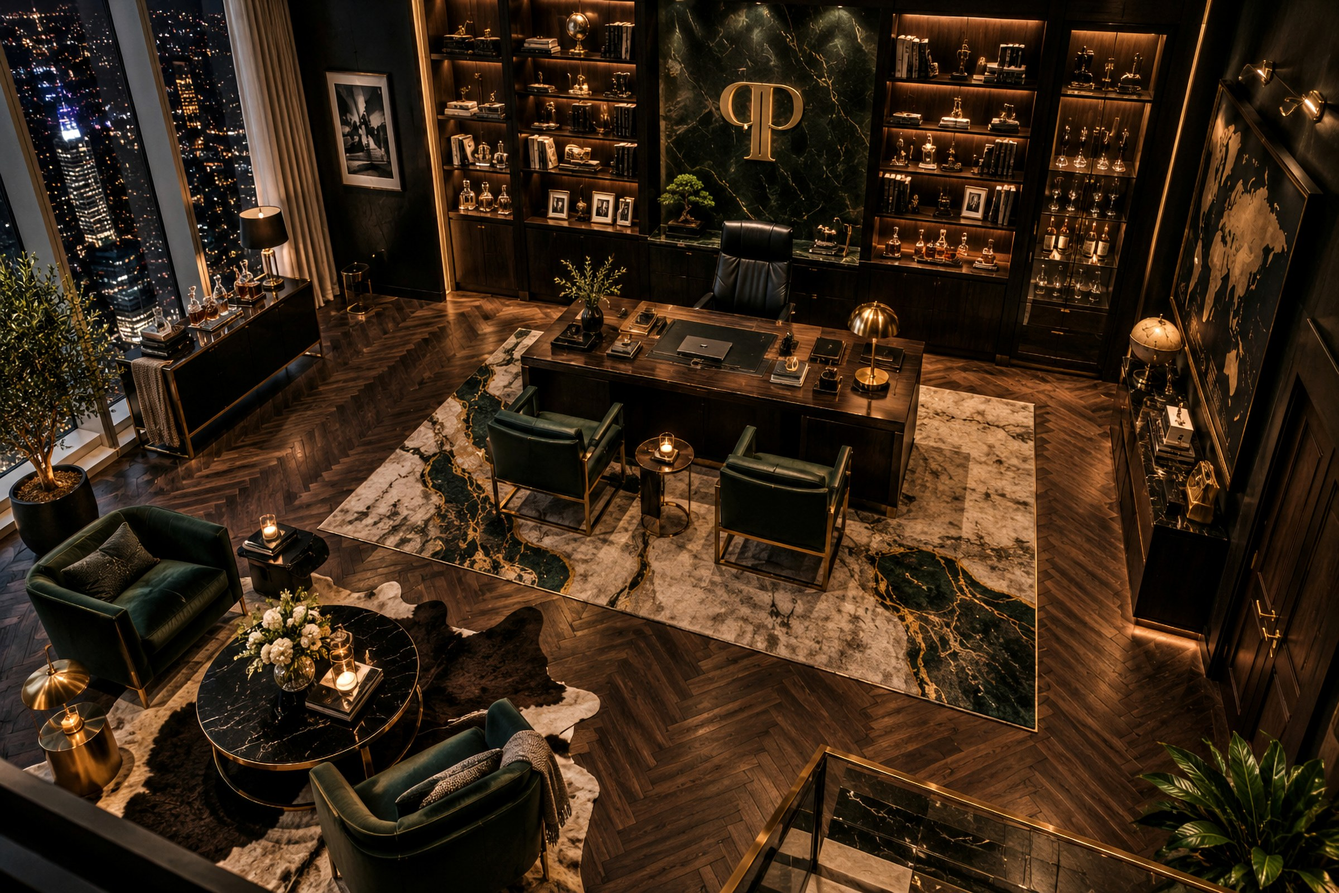
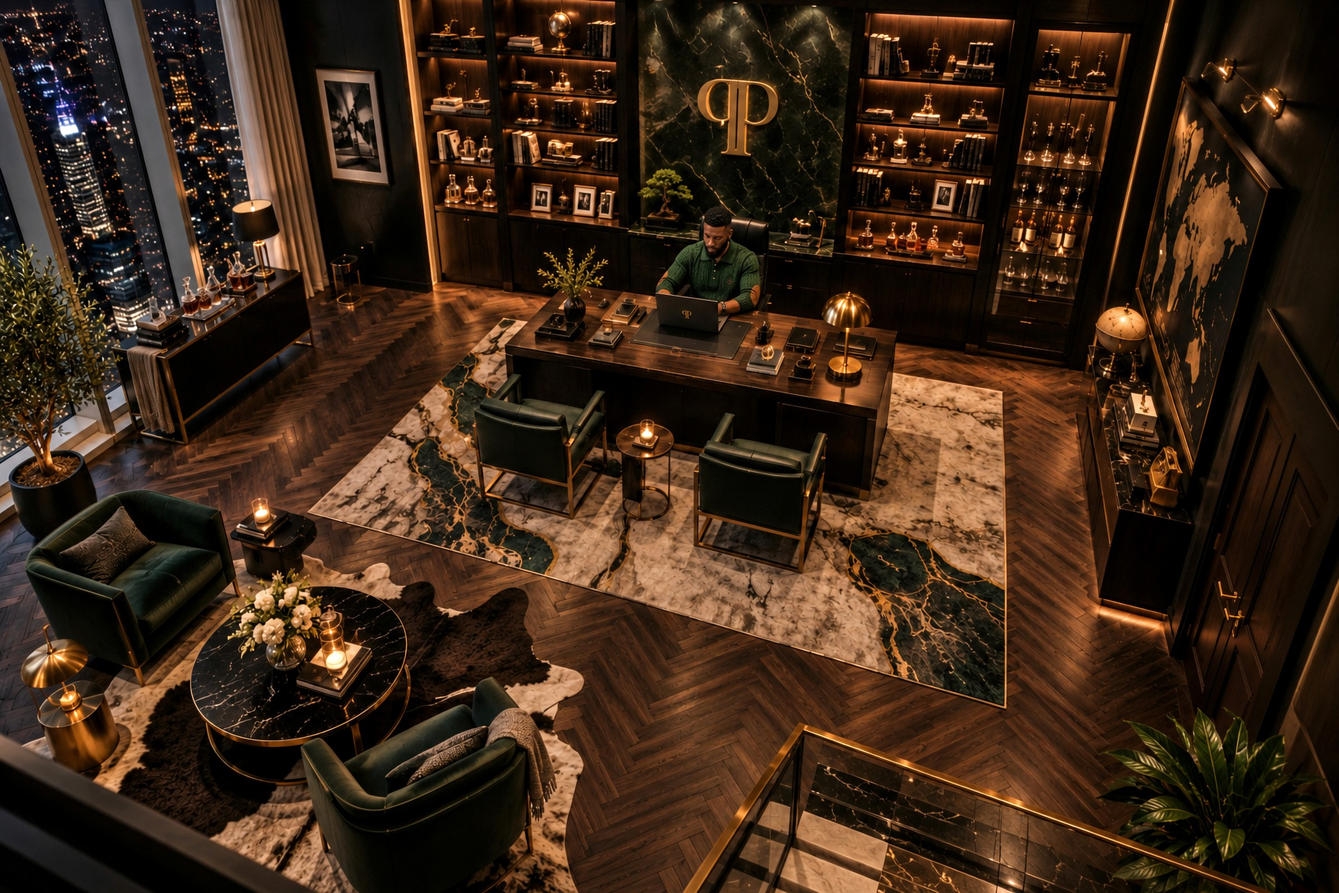
Give the Study a real occupant, restyle and embed the After Hours game
Replaces the Study photo with the new render (Paris seated at the desk)
and adds a sixth OXKNIT collab artifact on his sweater, positioned clear
of the five existing artifacts. All five pre-existing Study artifacts
were re-verified pixel-by-pixel against the new render rather than
assumed unchanged.

Restyles the After Hours boxing minigame (gym/style.css) to the site's
actual design tokens and typeface pair (Playfair Display + Inter)
instead of its original Barlow Condensed / DM Sans / gold-cream palette,
so it reads as part of Paris Pullen rather than a bolted-on arcade page.

Replaces the Gym's Boxer artifact CTA with a new gym-portal.js overlay
(same lazy-iframe pattern as the existing City Guide portal) so clicking
"Enter the Ring" opens the fight directly in a popup over the current
page instead of navigating to a separate tab -- wired into both
house.html and the homepage's embedded pager.

diff --git a/gym/style.css b/gym/style.css
@@ -1,7 +1,7 @@
-@import url('https://fonts.googleapis.com/css2?family=Barlow+Condensed:wght@500;600;700;800;900&family=DM+Sans:wght@400;500;600;700&display=swap');
-:root{color-scheme:dark;--gold:#e2bb7c;--cream:#fff2d9;--muted:#aaa69d;--ink:#101110;--red:#ff6255}*{box-sizing:border-box}body{margin:0;background:#0b0c0b;color:var(--cream);font-family:'DM Sans',sans-serif}button,a{-webkit-tap-highlight-color:transparent}button{font:inherit;color:inherit;cursor:pointer}button:focus-visible,a:focus-visible{outline:3px solid var(--gold);outline-offset:5px}button{border:0}button:disabled{cursor:default}a{color:inherit;text-decoration:none}[hidden]{display:none!important}.room{height:100svh;min-height:650px;position:relative;overflow:hidden;background:#17110c}.room-image{position:absolute;width:100%;height:100%;object-fit:cover;object-position:center}.room-shade{position:absolute;inset:0;background:linear-gradient(180deg,rgba(0,0,0,.6),transparent 27%,transparent 53%,rgba(0,0,0,.83))}.room-header{position:absolute;top:0;left:0;right:0;display:flex;justify-content:space-between;align-items:center;padding:34px 3.8%;font-size:12px;letter-spacing:2px}.wordmark{font-family:Georgia,serif;font-size:22px;letter-spacing:3px}.wordmark span{display:block;font:10px 'DM Sans',sans-serif;letter-spacing:4px;margin-top:8px;color:var(--gold)}.location{display:flex;gap:16px;align-items:center}.location i{height:3px;width:3px;background:var(--gold)}.room-number{font-size:13px}.room-number span{margin-left:20px;color:var(--gold)}.room-footer{position:absolute;bottom:46px;left:3.8%;right:3.8%;display:flex;align-items:end;justify-content:space-between;pointer-events:none}.room-footer button{pointer-events:auto}.eyebrow{font-size:12px;font-weight:600;letter-spacing:3px;color:var(--gold)}h1{font:italic 64px/1.02 Georgia,serif;font-weight:400;margin:17px 0}p{font-size:16px;line-height:1.6}.room-footer p{color:#d5c7b6;margin:12px 0 0}.room-instruction{width:290px;font-size:14px}.room-instruction p{font-size:14px}.room-instruction p span{color:#a7a49e}.small-line{display:block;width:36px;height:1px;background:var(--gold)}.text-button{background:none;padding:14px 0;color:var(--gold);font-size:12px;letter-spacing:2px}.text-button span{margin-left:22px}.hotspot{position:absolute;left:79%;top:40%;transform:translate(-50%,-50%);background:none;display:flex;align-items:center;flex-direction:column;gap:14px;z-index:1;padding:24px}.target{width:52px;height:52px;border:1px solid #efc98b88;display:grid;place-items:center;border-radius:50%;box-shadow:0 0 0 9px #d5b07113;transition:.25s;background:#10100d33;backdrop-filter:blur(3px)}.target span{font-size:28px;color:var(--gold)}.hotspot:hover .target{transform:scale(1.12);box-shadow:0 0 0 16px #d5b07118}.hotspot-label{font-size:10px;letter-spacing:2px;text-shadow:0 1px 6px black;white-space:nowrap;background:#11100ddd;padding:12px 16px;border-left:2px solid var(--gold)}.hotspot-label b{display:block;font-size:12px;letter-spacing:1px;margin-top:6px;color:var(--gold)}dialog{border:1px solid #5a4b35;padding:0;width:min(1120px,95vw);max-width:none;max-height:96svh;background:#101110;overflow:auto;color:var(--cream);box-shadow:0 32px 150px #000b}dialog::backdrop{background:#030505c9;backdrop-filter:blur(12px)}.game-top{display:flex;align-items:center;justify-content:space-between;height:69px;padding:0 28px;border-bottom:1px solid #343029}.game-brand{display:flex;gap:13px;align-items:center;font-size:10px;letter-spacing:2px}.game-brand b{display:block;font-size:15px;letter-spacing:3px;margin-top:4px}.monogram{font:italic 36px Georgia,serif;color:var(--gold);border-right:1px solid #4c4435;padding-right:16px}.top-actions{display:flex;gap:18px;align-items:center}.top-actions button{padding:8px;background:transparent;font-size:13px;color:#c5c2b8}.top-actions #close{font-size:21px}.arena{position:relative;height:clamp(340px,49vh,540px);overflow:hidden;background:#282018}.fighter{position:absolute;width:100%;height:100%;object-fit:cover;object-position:50% 43%;will-change:transform;transition:filter .15s}.arena-shade{position:absolute;inset:0;background:linear-gradient(180deg,#080a09c9,transparent 35%,#090b0977 78%,#101110)}.arena-caption{position:absolute;inset:116px 28px auto;display:flex;justify-content:space-between;font-size:10px;letter-spacing:2px;opacity:.55}.hud{display:flex;position:absolute;top:24px;left:28px;right:28px;align-items:start;gap:25px}.health-block{flex:1}.health-label{display:flex;justify-content:space-between;font-size:12px;letter-spacing:1px;margin-bottom:9px}.health-label span{color:#c5bbac;font-size:10px}.health-track{height:7px;background:#ffffff26;transform:skewX(-15deg)}.health-track div{height:100%;background:var(--gold);width:100%;transition:width .25s}.rival .health-track div{background:#ed795e}.health-value{display:block;font-size:10px;letter-spacing:1px;margin-top:7px;opacity:.7}.rival .health-value{text-align:right}.round-label{text-align:center;min-width:100px}.round-label span{font-size:10px;letter-spacing:2px}.round-label strong{display:block;font:40px/1 'Barlow Condensed',Impact,sans-serif;margin-top:4px}.overlay{position:absolute;inset:0;display:flex;flex-direction:column;justify-content:center;align-items:flex-start;padding:35px 6%;background:linear-gradient(90deg,#080a09ed,#080a09a8 41%,#080a0900 85%)}.overlay h2{font:900 clamp(52px,6.5vw,86px)/.85 'Barlow Condensed',Impact,sans-serif;letter-spacing:-1px;margin:19px 0 14px}.overlay h2 em{color:var(--gold);font-style:normal}.overlay p{font-size:14px;color:#ccc7bc;margin:8px 0;max-width:410px}.overlay .intro-sub{font-size:11px;letter-spacing:2px;color:var(--gold);margin:8px 0}.primary{background:var(--gold);color:#19170f;padding:15px 25px;min-width:218px;display:flex;justify-content:space-between;font-weight:800;letter-spacing:2px;font-size:13px;margin-top:20px;transition:background .15s,transform .15s}.primary:hover{background:#ffe0ab;transform:translateY(-2px)}.intro-hint{font-size:10px;letter-spacing:1.5px;color:#a9a699;margin-top:16px}.game-shell:has(.intro:not([hidden])) .hud,.game-shell:has(.intro:not([hidden])) .arena-caption{opacity:0}.console{display:flex;align-items:center;gap:32px;padding:20px 30px 16px;background:#111310;border-top:1px solid #88704955}.score-card,.streak-card{width:165px;flex-shrink:0}.score-card>span,.streak-card>span{display:block;font-size:10px;color:#b2b1a5;letter-spacing:2px}.score-card strong,.streak-card strong{display:block;font:46px/.95 'Barlow Condensed',Impact,sans-serif;margin:8px 0;color:var(--gold);font-weight:600}.score-card small,.streak-card small{font-size:10px;letter-spacing:1px;color:#918e81}.streak-card{text-align:right}.combo-panel{flex:1;min-width:0;max-width:500px;margin:auto}.combo-heading{display:flex;justify-content:space-between;font-size:10px;letter-spacing:1.2px;color:#c5bda9;gap:8px}.arrows{display:flex;justify-content:center;gap:9px;margin:12px 0}.arrows span{width:51px;height:49px;display:grid;place-items:center;border:1px solid #555444;background:#22251e;color:#e8e2cd;font:27px monospace;border-radius:3px;transition:.1s}.arrows span.active{border-color:var(--gold);box-shadow:inset 0 -2px var(--gold);background:#4b402b}.arrows span.done{color:#141a13;background:var(--gold);border-color:var(--gold)}.combo-track{height:3px;background:#34372d}.combo-track div{width:100%;height:100%;background:var(--gold)}#feedback{text-align:center;font-size:12px;color:#a6a89d;margin:9px 0 0;min-height:20px}.game-bottom{display:flex;justify-content:space-between;border-top:1px solid #2b2d26;padding:13px 29px;font-size:10px;letter-spacing:1px;color:#a3a497}kbd{font:11px 'DM Sans',sans-serif;border:1px solid #525448;border-radius:3px;padding:2px 5px;margin-right:4px}.divider{margin:0 12px;opacity:.4}.touch-controls{display:none;justify-content:center;gap:12px;padding:4px 15px 15px}.touch-controls button{width:58px;height:45px;background:#2e3027;border:1px solid #6b6652;font-size:25px;border-radius:4px;touch-action:manipulation}.touch-controls button:active{background:var(--gold);color:#101110}.fight-call{position:absolute;left:0;right:0;top:53%;text-align:center;font:800 54px/1 'Barlow Condensed',Impact,sans-serif;color:var(--cream);text-shadow:0 2px 20px #000;transform:rotate(-5deg);pointer-events:none}.fight-call small{display:block;font:600 13px 'DM Sans',sans-serif;letter-spacing:3px;margin-top:10px}.impact{position:absolute;inset:0;pointer-events:none}.arena.hit .fighter{animation:hit .28s}.arena.hurt .fighter{animation:hurt .38s}.arena.hit .impact{animation:flash .25s}.arena.hurt .impact{box-shadow:inset 0 0 140px #e7434377}.result,.paused{align-items:center;text-align:center;background:#070b0cce;backdrop-filter:blur(6px)}.result h2{color:var(--gold);font-size:78px}.result-stats{display:flex;gap:75px;margin-top:12px}.result-stats span{display:block;font-size:10px;letter-spacing:2px;color:#b8b6a9}.result-stats strong{display:block;font:48px 'Barlow Condensed',Impact,sans-serif}.result .text-button{margin-top:5px}.paused h2{font-size:68px}@keyframes hit{0%{transform:scale(1.03)}35%{transform:translate(12px,5px) scale(1.06);filter:brightness(1.3)}100%{transform:scale(1)}}@keyframes hurt{25%{transform:scale(1.1) rotate(-1.5deg)}65%{transform:scale(1.06) rotate(1deg)}}@keyframes flash{20%{background:#ffdeac2a}100%{background:transparent}}@media(pointer:coarse){.touch-controls{display:flex}.game-bottom{display:none}}@media(max-width:720px){.room{min-height:550px}.room-image{object-fit:contain;background:#080909}.room-header{padding:24px}.wordmark{font-size:17px}.wordmark span{font-size:8px}.location{display:none}.room-number{font-size:10px}.room-footer{bottom:32px;left:24px;right:24px}.room-footer h1{font-size:45px}.room-footer .eyebrow{font-size:9px}.room-footer>div>p{font-size:14px}.room-instruction{width:auto}.room-instruction p,.small-line{display:none}.hotspot{top:44%;left:79%;padding:15px}.hotspot-label{display:none}.target{width:38px;height:38px}.game-top{height:60px;padding:0 16px}.game-brand b{font-size:12px}.game-brand{font-size:8px}.top-actions{gap:4px}.top-actions #sound{font-size:10px}.arena{height:46svh;min-height:310px}.fighter{object-position:56% 40%}.hud{top:18px;left:15px;right:15px;gap:12px}.health-label{font-size:10px}.health-label span{display:none}.round-label{min-width:60px}.round-label strong{font-size:32px}.round-label span{font-size:8px}.arena-caption{inset:97px 15px auto;font-size:8px;letter-spacing:1px}.overlay{padding:22px;background:linear-gradient(90deg,#080a09e8,#080a0950)}.overlay h2{font-size:64px;margin:12px 0}.overlay p{font-size:12px;max-width:270px}.overlay p br{display:none}.intro-sub{display:none}.primary{padding:13px 20px;margin-top:13px}.intro-hint{font-size:8px;margin-top:10px}.console{padding:15px 15px 10px;gap:10px;flex-wrap:wrap}.score-card,.streak-card{width:auto;flex:1;display:flex;align-items:center;gap:8px}.score-card strong,.streak-card strong{font-size:26px;margin:0}.score-card>span,.streak-card>span{font-size:8px;letter-spacing:1px}.score-card small,.streak-card small{display:none}.streak-card{justify-content:end;order:1}.combo-panel{order:2;flex-basis:100%;margin-top:7px}.arrows{margin:9px 0}.arrows span{height:42px;width:45px;font-size:25px}.game-bottom{font-size:8px;padding:11px}.game-bottom>span:last-child{display:none}.touch-controls{display:flex}.result h2{font-size:62px}.result-stats{gap:50px}.result-stats strong{font-size:38px}.fight-call{font-size:43px}}@media(prefers-reduced-motion:reduce){*,*::before,*::after{animation:none!important;transition:none!important}}body.embed .room{display:none}body.embed{background:transparent}body.embed dialog{width:100%;max-height:100svh;border:0}body.embed .game-top #close{display:none}
+@import url('https://fonts.googleapis.com/css2?family=Playfair+Display:ital,wght@0,400;0,500;0,700;1,400&family=Inter:wght@300;400;500;600;700&display=swap');
+:root{color-scheme:dark;--gold:#C9A961;--cream:#F3F0EA;--muted:#9C9CA6;--ink:#0A0A0B;--red:#8C3B3B}*{box-sizing:border-box}body{margin:0;background:#0b0c0b;color:var(--cream);font-family:'Inter',sans-serif}button,a{-webkit-tap-highlight-color:transparent}button{font:inherit;color:inherit;cursor:pointer}button:focus-visible,a:focus-visible{outline:3px solid var(--gold);outline-offset:5px}button{border:0}button:disabled{cursor:default}a{color:inherit;text-decoration:none}[hidden]{display:none!important}.room{height:100svh;min-height:650px;position:relative;overflow:hidden;background:#17110c}.room-image{position:absolute;width:100%;height:100%;object-fit:cover;object-position:center}.room-shade{position:absolute;inset:0;background:linear-gradient(180deg,rgba(0,0,0,.6),transparent 27%,transparent 53%,rgba(0,0,0,.83))}.room-header{position:absolute;top:0;left:0;right:0;display:flex;justify-content:space-between;align-items:center;padding:34px 3.8%;font-size:12px;letter-spacing:2px}.wordmark{font-family:'Playfair Display',serif;font-size:22px;letter-spacing:3px}.wordmark span{display:block;font:10px 'Inter',sans-serif;letter-spacing:4px;margin-top:8px;color:var(--gold)}.location{display:flex;gap:16px;align-items:center}.location i{height:3px;width:3px;background:var(--gold)}.room-number{font-size:13px}.room-number span{margin-left:20px;color:var(--gold)}.room-footer{position:absolute;bottom:46px;left:3.8%;right:3.8%;display:flex;align-items:end;justify-content:space-between;pointer-events:none}.room-footer button{pointer-events:auto}.eyebrow{font-size:12px;font-weight:600;letter-spacing:3px;color:var(--gold)}h1{font:italic 64px/1.02 'Playfair Display',serif;font-weight:400;margin:17px 0}p{font-size:16px;line-height:1.6}.room-footer p{color:#d5c7b6;margin:12px 0 0}.room-instruction{width:290px;font-size:14px}.room-instruction p{font-size:14px}.room-instruction p span{color:#a7a49e}.small-line{display:block;width:36px;height:1px;background:var(--gold)}.text-button{background:none;padding:14px 0;color:var(--gold);font-size:12px;letter-spacing:2px}.text-button span{margin-left:22px}.hotspot{position:absolute;left:79%;top:40%;transform:translate(-50%,-50%);background:none;display:flex;align-items:center;flex-direction:column;gap:14px;z-index:1;padding:24px}.target{width:52px;height:52px;border:1px solid #efc98b88;display:grid;place-items:center;border-radius:50%;box-shadow:0 0 0 9px #d5b07113;transition:.25s;background:#10100d33;backdrop-filter:blur(3px)}.target span{font-size:28px;color:var(--gold)}.hotspot:hover .target{transform:scale(1.12);box-shadow:0 0 0 16px #d5b07118}.hotspot-label{font-size:10px;letter-spacing:2px;text-shadow:0 1px 6px black;white-space:nowrap;background:#11100ddd;padding:12px 16px;border-left:2px solid var(--gold)}.hotspot-label b{display:block;font-size:12px;letter-spacing:1px;margin-top:6px;color:var(--gold)}dialog{border:1px solid #5a4b35;padding:0;width:min(1120px,95vw);max-width:none;max-height:96svh;background:#101110;overflow:auto;color:var(--cream);box-shadow:0 32px 150px #000b}dialog::backdrop{background:#030505c9;backdrop-filter:blur(12px)}.game-top{display:flex;align-items:center;justify-content:space-between;height:69px;padding:0 28px;border-bottom:1px solid #343029}.game-brand{display:flex;gap:13px;align-items:center;font-size:10px;letter-spacing:2px}.game-brand b{display:block;font-size:15px;letter-spacing:3px;margin-top:4px}.monogram{font:italic 36px 'Playfair Display',serif;color:var(--gold);border-right:1px solid #4c4435;padding-right:16px}.top-actions{display:flex;gap:18px;align-items:center}.top-actions button{padding:8px;background:transparent;font-size:13px;color:#c5c2b8}.top-actions #close{font-size:21px}.arena{position:relative;height:clamp(340px,49vh,540px);overflow:hidden;background:#282018}.fighter{position:absolute;width:100%;height:100%;object-fit:cover;object-position:50% 43%;will-change:transform;transition:filter .15s}.arena-shade{position:absolute;inset:0;background:linear-gradient(180deg,#080a09c9,transparent 35%,#090b0977 78%,#101110)}.arena-caption{position:absolute;inset:116px 28px auto;display:flex;justify-content:space-between;font-size:10px;letter-spacing:2px;opacity:.55}.hud{display:flex;position:absolute;top:24px;left:28px;right:28px;align-items:start;gap:25px}.health-block{flex:1}.health-label{display:flex;justify-content:space-between;font-size:12px;letter-spacing:1px;margin-bottom:9px}.health-label span{color:#c5bbac;font-size:10px}.health-track{height:7px;background:#ffffff26;transform:skewX(-15deg)}.health-track div{height:100%;background:var(--gold);width:100%;transition:width .25s}.rival .health-track div{background:#ed795e}.health-value{display:block;font-size:10px;letter-spacing:1px;margin-top:7px;opacity:.7}.rival .health-value{text-align:right}.round-label{text-align:center;min-width:100px}.round-label span{font-size:10px;letter-spacing:2px}.round-label strong{display:block;font:40px/1 'Playfair Display',serif;margin-top:4px}.overlay{position:absolute;inset:0;display:flex;flex-direction:column;justify-content:center;align-items:flex-start;padding:35px 6%;background:linear-gradient(90deg,#080a09ed,#080a09a8 41%,#080a0900 85%)}.overlay h2{font:900 clamp(52px,6.5vw,86px)/.85 'Playfair Display',serif;letter-spacing:-1px;margin:19px 0 14px}.overlay h2 em{color:var(--gold);font-style:normal}.overlay p{font-size:14px;color:#ccc7bc;margin:8px 0;max-width:410px}.overlay .intro-sub{font-size:11px;letter-spacing:2px;color:var(--gold);margin:8px 0}.primary{background:var(--gold);color:var(--ink);padding:15px 25px;min-width:218px;display:flex;justify-content:space-between;font-weight:800;letter-spacing:2px;font-size:13px;margin-top:20px;transition:background .15s,transform .15s}.primary:hover{background:#ffe0ab;transform:translateY(-2px)}.intro-hint{font-size:10px;letter-spacing:1.5px;color:#a9a699;margin-top:16px}.game-shell:has(.intro:not([hidden])) .hud,.game-shell:has(.intro:not([hidden])) .arena-caption{opacity:0}.console{display:flex;align-items:center;gap:32px;padding:20px 30px 16px;background:#111310;border-top:1px solid #88704955}.score-card,.streak-card{width:165px;flex-shrink:0}.score-card>span,.streak-card>span{display:block;font-size:10px;color:#b2b1a5;letter-spacing:2px}.score-card strong,.streak-card strong{display:block;font:46px/.95 'Playfair Display',serif;margin:8px 0;color:var(--gold);font-weight:600}.score-card small,.streak-card small{font-size:10px;letter-spacing:1px;color:#918e81}.streak-card{text-align:right}.combo-panel{flex:1;min-width:0;max-width:500px;margin:auto}.combo-heading{display:flex;justify-content:space-between;font-size:10px;letter-spacing:1.2px;color:#c5bda9;gap:8px}.arrows{display:flex;justify-content:center;gap:9px;margin:12px 0}.arrows span{width:51px;height:49px;display:grid;place-items:center;border:1px solid #555444;background:#22251e;color:#e8e2cd;font:27px monospace;border-radius:3px;transition:.1s}.arrows span.active{border-color:var(--gold);box-shadow:inset 0 -2px var(--gold);background:#4b402b}.arrows span.done{color:#141a13;background:var(--gold);border-color:var(--gold)}.combo-track{height:3px;background:#34372d}.combo-track div{width:100%;height:100%;background:var(--gold)}#feedback{text-align:center;font-size:12px;color:#a6a89d;margin:9px 0 0;min-height:20px}.game-bottom{display:flex;justify-content:space-between;border-top:1px solid #2b2d26;padding:13px 29px;font-size:10px;letter-spacing:1px;color:#a3a497}kbd{font:11px 'Inter',sans-serif;border:1px solid #525448;border-radius:3px;padding:2px 5px;margin-right:4px}.divider{margin:0 12px;opacity:.4}.touch-controls{display:none;justify-content:center;gap:12px;padding:4px 15px 15px}.touch-controls button{width:58px;height:45px;background:#2e3027;border:1px solid #6b6652;font-size:25px;border-radius:4px;touch-action:manipulation}.touch-controls button:active{background:var(--gold);color:#101110}.fight-call{position:absolute;left:0;right:0;top:53%;text-align:center;font:800 54px/1 'Playfair Display',serif;color:var(--cream);text-shadow:0 2px 20px #000;transform:rotate(-5deg);pointer-events:none}.fight-call small{display:block;font:600 13px 'Inter',sans-serif;letter-spacing:3px;margin-top:10px}.impact{position:absolute;inset:0;pointer-events:none}.arena.hit .fighter{animation:hit .28s}.arena.hurt .fighter{animation:hurt .38s}.arena.hit .impact{animation:flash .25s}.arena.hurt .impact{box-shadow:inset 0 0 140px #e7434377}.result,.paused{align-items:center;text-align:center;background:#070b0cce;backdrop-filter:blur(6px)}.result h2{color:var(--gold);font-size:78px}.result-stats{display:flex;gap:75px;margin-top:12px}.result-stats span{display:block;font-size:10px;letter-spacing:2px;color:#b8b6a9}.result-stats strong{display:block;font:48px 'Playfair Display',serif}.result .text-button{margin-top:5px}.paused h2{font-size:68px}@keyframes hit{0%{transform:scale(1.03)}35%{transform:translate(12px,5px) scale(1.06);filter:brightness(1.3)}100%{transform:scale(1)}}@keyframes hurt{25%{transform:scale(1.1) rotate(-1.5deg)}65%{transform:scale(1.06) rotate(1deg)}}@keyframes flash{20%{background:#ffdeac2a}100%{background:transparent}}@media(pointer:coarse){.touch-controls{display:flex}.game-bottom{display:none}}@media(max-width:720px){.room{min-height:550px}.room-image{object-fit:contain;background:#080909}.room-header{padding:24px}.wordmark{font-size:17px}.wordmark span{font-size:8px}.location{display:none}.room-number{font-size:10px}.room-footer{bottom:32px;left:24px;right:24px}.room-footer h1{font-size:45px}.room-footer .eyebrow{font-size:9px}.room-footer>div>p{font-size:14px}.room-instruction{width:auto}.room-instruction p,.small-line{display:none}.hotspot{top:44%;left:79%;padding:15px}.hotspot-label{display:none}.target{width:38px;height:38px}.game-top{height:60px;padding:0 16px}.game-brand b{font-size:12px}.game-brand{font-size:8px}.top-actions{gap:4px}.top-actions #sound{font-size:10px}.arena{height:46svh;min-height:310px}.fighter{object-position:56% 40%}.hud{top:18px;left:15px;right:15px;gap:12px}.health-label{font-size:10px}.health-label span{display:none}.round-label{min-width:60px}.round-label strong{font-size:32px}.round-label span{font-size:8px}.arena-caption{inset:97px 15px auto;font-size:8px;letter-spacing:1px}.overlay{padding:22px;background:linear-gradient(90deg,#080a09e8,#080a0950)}.overlay h2{font-size:64px;margin:12px 0}.overlay p{font-size:12px;max-width:270px}.overlay p br{display:none}.intro-sub{display:none}.primary{padding:13px 20px;margin-top:13px}.intro-hint{font-size:8px;margin-top:10px}.console{padding:15px 15px 10px;gap:10px;flex-wrap:wrap}.score-card,.streak-card{width:auto;flex:1;display:flex;align-items:center;gap:8px}.score-card strong,.streak-card strong{font-size:26px;margin:0}.score-card>span,.streak-card>span{font-size:8px;letter-spacing:1px}.score-card small,.streak-card small{display:none}.streak-card{justify-content:end;order:1}.combo-panel{order:2;flex-basis:100%;margin-top:7px}.arrows{margin:9px 0}.arrows span{height:42px;width:45px;font-size:25px}.game-bottom{font-size:8px;padding:11px}.game-bottom>span:last-child{display:none}.touch-controls{display:flex}.result h2{font-size:62px}.result-stats{gap:50px}.result-stats strong{font-size:38px}.fight-call{font-size:43px}}@media(prefers-reduced-motion:reduce){*,*::before,*::after{animation:none!important;transition:none!important}}body.embed .room{display:none}body.embed{background:transparent}body.embed dialog{width:100%;max-height:100svh;border:0}body.embed .game-top #close{display:none}
 
-.game-shell{position:relative}#action-canvas{position:absolute;inset:0;width:100%;height:100%;pointer-events:none}.game-shell:has(.intro:not([hidden])) #action-canvas{display:none}.game-shell:has(.intro[hidden]) .fighter{content:url(gym.png);filter:blur(3px) brightness(.5);object-position:10% 40%}.arena-shade{pointer-events:none}.leaderboard{position:absolute;inset:69px 0 0;background:#10130ff5;z-index:10;padding:28px 7%;overflow:auto;backdrop-filter:blur(12px)}.leaderboard header{display:flex;justify-content:space-between;align-items:center}.leaderboard header button{background:none;font-size:23px}.leaderboard h2{font:800 64px/1 Barlow Condensed,Impact,sans-serif;margin:23px 0 8px;color:var(--gold)}.leaderboard>p{color:#aeaf9f;font-size:14px}.rank-columns{display:flex;justify-content:space-between;font-size:10px;letter-spacing:2px;color:#a8a697;margin-top:26px;padding-bottom:12px;border-bottom:1px solid #504e3e}.leaderboard ol{padding:0;list-style:none;margin:0}.leaderboard li{display:flex;align-items:center;gap:18px;border-bottom:1px solid #35372b;padding:14px 0;font-size:16px}.leaderboard li>b{color:#aaa38a;font:24px Barlow Condensed,Impact,sans-serif}.leaderboard li:first-child>b,.leaderboard li:first-child>strong{color:var(--gold)}.leaderboard li>span{flex:1}.leaderboard li>small{font-size:12px;color:#aaa38a}.leaderboard li>strong{font:26px Barlow Condensed,Impact,sans-serif;min-width:85px;text-align:right}#rank-form{width:min(430px,100%);margin-top:8px}#rank-form label{display:block;font-size:10px;letter-spacing:1px;color:var(--gold);margin-bottom:9px}#rank-form>div{display:flex;gap:8px}#rank-name{font:16px DM Sans,sans-serif;min-width:0;width:100%;background:#23261e;border:1px solid #766a50;padding:10px;color:var(--cream)}#save-rank{white-space:nowrap;background:var(--gold);color:#11150d;font-size:10px;font-weight:700;padding:10px}#rank-status{font-size:12px;max-width:430px;margin:6px 0}#result{padding:20px 6%;overflow:auto}#result h2{font-size:65px;margin:12px 0}#result .result-stats{margin-top:4px}#result .result-stats strong{font-size:40px}#result .primary{margin-top:12px}button:disabled{opacity:.5}@media(max-width:720px){.leaderboard{inset:60px 0 0;padding:20px}.leaderboard h2{font-size:49px}.leaderboard li{padding:11px 0;gap:10px}.top-actions{gap:0}.top-actions button{padding:7px 5px;font-size:10px}.game-brand{gap:8px}.monogram{padding-right:10px}#result h2{font-size:46px}#result .result-stats strong{font-size:30px}#result .result-stats{gap:40px}#result .text-button{font-size:10px;padding:8px 0}#result .primary{padding:10px 18px}#rank-form label{font-size:8px}#rank-name{font-size:14px;padding:8px}#save-rank{font-size:9px}.arrows{gap:6px}.arrows span{width:42px}.overlay p{line-height:1.5}}
+.game-shell{position:relative}#action-canvas{position:absolute;inset:0;width:100%;height:100%;pointer-events:none}.game-shell:has(.intro:not([hidden])) #action-canvas{display:none}.game-shell:has(.intro[hidden]) .fighter{content:url(gym.png);filter:blur(3px) brightness(.5);object-position:10% 40%}.arena-shade{pointer-events:none}.leaderboard{position:absolute;inset:69px 0 0;background:#10130ff5;z-index:10;padding:28px 7%;overflow:auto;backdrop-filter:blur(12px)}.leaderboard header{display:flex;justify-content:space-between;align-items:center}.leaderboard header button{background:none;font-size:23px}.leaderboard h2{font:800 64px/1 'Playfair Display',serif;margin:23px 0 8px;color:var(--gold)}.leaderboard>p{color:#aeaf9f;font-size:14px}.rank-columns{display:flex;justify-content:space-between;font-size:10px;letter-spacing:2px;color:#a8a697;margin-top:26px;padding-bottom:12px;border-bottom:1px solid #504e3e}.leaderboard ol{padding:0;list-style:none;margin:0}.leaderboard li{display:flex;align-items:center;gap:18px;border-bottom:1px solid #35372b;padding:14px 0;font-size:16px}.leaderboard li>b{color:#aaa38a;font:24px 'Playfair Display',serif}.leaderboard li:first-child>b,.leaderboard li:first-child>strong{color:var(--gold)}.leaderboard li>span{flex:1}.leaderboard li>small{font-size:12px;color:#aaa38a}.leaderboard li>strong{font:26px 'Playfair Display',serif;min-width:85px;text-align:right}#rank-form{width:min(430px,100%);margin-top:8px}#rank-form label{display:block;font-size:10px;letter-spacing:1px;color:var(--gold);margin-bottom:9px}#rank-form>div{display:flex;gap:8px}#rank-name{font:16px 'Inter',sans-serif;min-width:0;width:100%;background:#23261e;border:1px solid #766a50;padding:10px;color:var(--cream)}#save-rank{white-space:nowrap;background:var(--gold);color:var(--ink);font-size:10px;font-weight:700;padding:10px}#rank-status{font-size:12px;max-width:430px;margin:6px 0}#result{padding:20px 6%;overflow:auto}#result h2{font-size:65px;margin:12px 0}#result .result-stats{margin-top:4px}#result .result-stats strong{font-size:40px}#result .primary{margin-top:12px}button:disabled{opacity:.5}@media(max-width:720px){.leaderboard{inset:60px 0 0;padding:20px}.leaderboard h2{font-size:49px}.leaderboard li{padding:11px 0;gap:10px}.top-actions{gap:0}.top-actions button{padding:7px 5px;font-size:10px}.game-brand{gap:8px}.monogram{padding-right:10px}#result h2{font-size:46px}#result .result-stats strong{font-size:30px}#result .result-stats{gap:40px}#result .text-button{font-size:10px;padding:8px 0}#result .primary{padding:10px 18px}#rank-form label{font-size:8px}#rank-name{font-size:14px;padding:8px}#save-rank{font-size:9px}.arrows{gap:6px}.arrows span{width:42px}.overlay p{line-height:1.5}}
 
 :root{--champagne:#D9CBAA;--brass-lit:#C9A961;--ivory:#F3F0EA;--font-mono:monospace;--s2:8px;--s4:16px;--d-med:280ms;--d-fast:160ms;--ease-out:cubic-bezier(.16,1,.3,1)}
 .artifact{

diff --git a/house.html b/house.html
@@ -83,8 +83,8 @@
   <div class="floor-scene__surface">
     <div class="floor-scene__canvas">
       <div class="floor-scene__view">
-        <img src="assets/img/room-bath.jpg?v=20260913d"
-             srcset="assets/img/room-bath@sm.jpg?v=20260913d 1200w, assets/img/room-bath.jpg?v=20260913d 2400w"
+        <img src="assets/img/room-bath.jpg?v=20260913e"
+             srcset="assets/img/room-bath@sm.jpg?v=20260913e 1200w, assets/img/room-bath.jpg?v=20260913e 2400w"
              sizes="100vw" alt="The Bathroom" loading="lazy"
              style="--focus:50% 50%" width="2400" height="1340">
         <div class="artifacts">
@@ -117,8 +117,8 @@
   <div class="floor-scene__surface">
     <div class="floor-scene__canvas">
       <div class="floor-scene__view">
-        <img src="assets/img/room-bedroom.jpg?v=20260913d"
-             srcset="assets/img/room-bedroom@sm.jpg?v=20260913d 1200w, assets/img/room-bedroom.jpg?v=20260913d 2400w"
+        <img src="assets/img/room-bedroom.jpg?v=20260913e"
+             srcset="assets/img/room-bedroom@sm.jpg?v=20260913e 1200w, assets/img/room-bedroom.jpg?v=20260913e 2400w"
              sizes="100vw" alt="The Bedroom" loading="lazy"
              style="--focus:50% 52%" width="2400" height="1340">
         <div class="artifacts">
@@ -203,8 +203,8 @@
   <div class="floor-scene__surface">
     <div class="floor-scene__canvas">
       <div class="floor-scene__view">
-        <img src="assets/img/room-closet.jpg?v=20260913d"
-             srcset="assets/img/room-closet@sm.jpg?v=20260913d 1200w, assets/img/room-closet.jpg?v=20260913d 2400w"
+        <img src="assets/img/room-closet.jpg?v=20260913e"
+             srcset="assets/img/room-closet@sm.jpg?v=20260913e 1200w, assets/img/room-closet.jpg?v=20260913e 2400w"
              sizes="100vw" alt="The Closet" loading="lazy"
              style="--focus:50% 52%" width="2400" height="1340">
         <div class="artifacts">
@@ -285,8 +285,8 @@
   <div class="floor-scene__surface">
     <div class="floor-scene__canvas">
       <div class="floor-scene__view">
-        <img src="assets/img/room-kitchen.jpg?v=20260913d"
-             srcset="assets/img/room-kitchen@sm.jpg?v=20260913d 1200w, assets/img/room-kitchen.jpg?v=20260913d 2400w"
+        <img src="assets/img/room-kitchen.jpg?v=20260913e"
+             srcset="assets/img/room-kitchen@sm.jpg?v=20260913e 1200w, assets/img/room-kitchen.jpg?v=20260913e 2400w"
              sizes="100vw" alt="The Kitchen" loading="lazy"
              style="--focus:50% 54%" width="2400" height="1340">
         <div class="artifacts">
@@ -345,8 +345,8 @@
   <div class="floor-scene__surface">
     <div class="floor-scene__canvas">
       <div class="floor-scene__view">
-        <img src="assets/img/room-living.jpg?v=20260913d"
-             srcset="assets/img/room-living@sm.jpg?v=20260913d 1200w, assets/img/room-living.jpg?v=20260913d 2400w"
+        <img src="assets/img/room-living.jpg?v=20260913e"
+             srcset="assets/img/room-living@sm.jpg?v=20260913e 1200w, assets/img/room-living.jpg?v=20260913e 2400w"
              sizes="100vw" alt="The Living Room" loading="lazy"
              style="--focus:50% 50%" width="2400" height="1340">
   <div class="floor-scene__screen" style="--x:55.7%;--y:24.0%;--w:17%;--h:14%" data-tv data-channel-set="living" data-box="0.4740,0.1704,0.6406,0.3093">
@@ -519,8 +519,8 @@
   <div class="floor-scene__surface">
     <div class="floor-scene__canvas">
       <div class="floor-scene__view">
-        <img src="assets/img/room-study.jpg?v=20260913d"
-             srcset="assets/img/room-study@sm.jpg?v=20260913d 1200w, assets/img/room-study.jpg?v=20260913d 2400w"
+        <img src="assets/img/room-study.jpg?v=20260913e"
+             srcset="assets/img/room-study@sm.jpg?v=20260913e 1200w, assets/img/room-study.jpg?v=20260913e 2400w"
              sizes="100vw" alt="The Study" loading="lazy"
              style="--focus:50% 52%" width="2400" height="1340">
         <div class="artifacts">
@@ -549,6 +549,11 @@
           <span class="artifact__label">The Map</span>
           
         </button>
+        <button class="artifact" style="--x:54%;--y:31%" data-artifact="oxknit-study">
+          <span class="artifact__dot" aria-hidden="true"></span>
+          <span class="artifact__label">The Polo</span>
+          
+        </button>
         </div>
       </div>
     </div>
@@ -560,7 +565,7 @@
       <h2 class="floor-plate__name">The Study</h2>
       <p class="floor-plate__level"><b>27</b> <span>The Penthouse</span></p>
       <p class="floor-plate__note">The room where the answer is usually no, and where it gets said politely.</p>
-      <p class="floor-plate__count"><i></i>5 artifacts on this floor</p>
+      <p class="floor-plate__count"><i></i>6 artifacts on this floor</p>
     </div>
   </div>
 
@@ -657,14 +662,27 @@
               </div>
             </div>
           </div>
+          <div class="drawer__panel" data-artifact="oxknit-study" hidden>
+            <div class="drawer__inner">
+              <div class="drawer__head">
+                <p class="drawer__tag">Level 27 &#183; Artifact</p>
+                <h3 class="drawer__name">The Polo</h3>
+              </div>
+              <div class="drawer__body">
+                <p class="body">Dark green cable knit, sleeves pushed to the forearm — the version of him that answers email after the desk lamp is the only light left on. OXKNIT again, the same collaboration as the one on the stairs downstairs, cut for a colder register.</p>
+                <dl class="drawer__spec"><div><dt>Collection</dt><dd>OXKNIT × Paris Pullen</dd></div><div><dt>Knit</dt><dd>Cable</dd></div><div><dt>Also worn</dt><dd>The Living Room</dd></div></dl>
+                
+              </div>
+            </div>
+          </div>
   </div>
 </section>
 <section class="floor-scene" id="music-lounge" tabindex="-1" aria-label="Level 26 — The Music Lounge" data-right="gym" data-up="penthouse-living">
   <div class="floor-scene__surface">
     <div class="floor-scene__canvas">
       <div class="floor-scene__view">
-        <img src="assets/img/room-musiclounge.jpg?v=20260913d"
-             srcset="assets/img/room-musiclounge@sm.jpg?v=20260913d 1200w, assets/img/room-musiclounge.jpg?v=20260913d 2400w"
+        <img src="assets/img/room-musiclounge.jpg?v=20260913e"
+             srcset="assets/img/room-musiclounge@sm.jpg?v=20260913e 1200w, assets/img/room-musiclounge.jpg?v=20260913e 2400w"
              sizes="100vw" alt="The Music Lounge" loading="lazy"
              style="--focus:50% 50%" width="2400" height="1340">
         <div class="artifacts">
@@ -749,8 +767,8 @@
   <div class="floor-scene__surface">
     <div class="floor-scene__canvas">
       <div class="floor-scene__view">
-        <img src="assets/img/room-gym.jpg?v=20260913d"
-             srcset="assets/img/room-gym@sm.jpg?v=20260913d 1200w, assets/img/room-gym.jpg?v=20260913d 2400w"
+        <img src="assets/img/room-gym.jpg?v=20260913e"
+             srcset="assets/img/room-gym@sm.jpg?v=20260913e 1200w, assets/img/room-gym.jpg?v=20260913e 2400w"
              sizes="100vw" alt="The Gym" loading="lazy"
              style="--focus:50% 50%" width="2400" height="1340">
         <div class="artifacts">
@@ -785,7 +803,7 @@
               <div class="drawer__body">
                 <p class="body">Black leather, brass monogram, hung dead centre of the room. He doesn&#8217;t skip this one, ever — the rest of the gym is maintenance, this is the part he actually shows up for.</p>
                 <dl class="drawer__spec"><div><dt>Material</dt><dd>Leather</dd></div><div><dt>Skipped</dt><dd>Never</dd></div><div><dt>Open a challenge</dt><dd>After Hours</dd></div></dl>
-                <a class="cta cta--ghost" href="gym/" target="_blank" rel="noopener" style="margin-top:var(--s2)"><span>Enter the Ring &#8212; After Hours</span><span class="cta__arrow" aria-hidden="true">&#8594;</span></a>
+                <button type="button" class="cta cta--ghost" data-gym-portal style="margin-top:var(--s2)"><span>Enter the Ring &#8212; After Hours</span><span class="cta__arrow" aria-hidden="true">&#8594;</span></button>
               </div>
             </div>
           </div>
@@ -795,8 +813,8 @@
   <div class="floor-scene__surface">
     <div class="floor-scene__canvas">
       <div class="floor-scene__view">
-        <img src="assets/img/room-cinema.jpg?v=20260913d"
-             srcset="assets/img/room-cinema@sm.jpg?v=20260913d 1200w, assets/img/room-cinema.jpg?v=20260913d 2400w"
+        <img src="assets/img/room-cinema.jpg?v=20260913e"
+             srcset="assets/img/room-cinema@sm.jpg?v=20260913e 1200w, assets/img/room-cinema.jpg?v=20260913e 2400w"
              sizes="100vw" alt="The Cinema" loading="lazy"
              style="--focus:50% 54%" width="2400" height="1340">
   <div class="floor-scene__screen" style="--x:49.7%;--y:30.9%;--w:28%;--h:25%" data-tv data-channel-set="cinema" data-box="0.3563,0.1833,0.6385,0.4352">
@@ -987,6 +1005,7 @@
 <script src="assets/js/world.js?v=2" defer></script>
 <script src="assets/js/tv-remote.js?v=2" defer></script>
 <script src="assets/js/guide-portal.js?v=2" defer></script>
+<script src="assets/js/gym-portal.js?v=2" defer></script>
 <script src="assets/js/vault-entrance.js?v=2" defer></script>
 <script src="assets/js/piano-player.js?v=2" defer></script>
 </body>

diff --git a/assets/js/penthouse.js b/assets/js/penthouse.js
@@ -18,7 +18,7 @@
   // a room photo is re-shot in place (same filename, new bytes), since
   // browsers and Cloudflare's edge otherwise keep serving the old file for
   // hours off the unchanged URL.
-  var IMG_VER = '20260913d';
+  var IMG_VER = '20260913e';
 
   // Order here (mirrors build_house.py's _PENTHOUSE_ORDER exactly) is what
   // the room-pager's slide direction is actually built from -- it pages by
@@ -107,6 +107,7 @@
       { key:'journal', name:'The Journal', x:'51%', y:'38.8%', body:"This week's pages, face-up on the blotter for once, marked in pencil rather than ink so that nothing is decided yet. What survives the pencil goes out as a dispatch. Most of it does not survive the pencil.", specs:[['State', 'Draft'], ['Marked in', 'Pencil'], ['Survival rate', 'Low']] },
       { key:'cocktails', name:'The Cocktail Guide', x:'83%', y:'14.3%', body:'Six drinks, written on a card and kept behind the bottles, because a man looking up an Old Fashioned in front of guests has already lost the evening. Six is the entire list. There has never been a seventh.', specs:[['Drinks', 'Six'], ['Kept', 'Behind the bottles'], ['Consulted in company', 'Never']] },
       { key:'map', name:'The Map', x:'94%', y:'18.6%', body:'Brass inlay on black. Cities he has worked, not cities he has visited — a distinction he will make if you ask.', specs:[['Marks', 'Cities worked'], ['Not', 'Cities visited']] },
+      { key:'oxknit-study', name:'The Polo', x:'54%', y:'31%', body:"Dark green cable knit, sleeves pushed to the forearm &#8212; the version of him that answers email after the desk lamp is the only light left on. OXKNIT again, the same collaboration as the one on the stairs downstairs, cut for a colder register.", specs:[['Collection', 'OXKNIT × Paris Pullen'], ['Knit', 'Cable'], ['Also worn', 'The Living Room']] },
     ],
     'cinema': [
       { key:'posters', name:'The Posters', x:'10%', y:'32%', body:'All one register: men in tailoring, making decisions, usually badly. He will tell you it is research. It is partly research.', specs:[['Register', 'One'], ['Claimed purpose', 'Research'], ['Actual', 'Partly']] },
@@ -293,7 +294,7 @@
   // minigame lives at gym/ as its own standalone page, not part of the
   // room-pager, so this artifact is the one doorway from the photo room
   // into it.
-  var GYM_BOXING_CTA = '<a class="cta cta--ghost" href="gym/" target="_blank" rel="noopener" style="margin-top:var(--s2)"><span>Enter the Ring &#8212; After Hours</span><span class="cta__arrow" aria-hidden="true">&#8594;</span></a>';
+  var GYM_BOXING_CTA = '<button type="button" class="cta cta--ghost" data-gym-portal style="margin-top:var(--s2)"><span>Enter the Ring &#8212; After Hours</span><span class="cta__arrow" aria-hidden="true">&#8594;</span></button>';
   // The Piano artifact (Living Room) is retired -- mirrors build_house.py's
   // MUSIC_LOUNGE_SPOTIFY exactly: one fixed playlist on the Music Lounge's
   // record-player artifact. The target is an empty div, not a plain

diff --git a/assets/js/gym-portal.js b/assets/js/gym-portal.js
@@ -1,0 +1,54 @@
+/* ============================================================
+   Gym Portal — a popup into the After Hours boxing minigame,
+   opened from the Gym's own Boxer artifact. Mirrors guide-portal.js
+   exactly (built lazily on first use, reused for every trigger on
+   the page). The iframe loads gym/index.html?embed=1 -- that query
+   param is read by gym/game.js itself, which hides the standalone
+   room preview, drops the dialog's own close button, and opens the
+   fight dialog immediately, so what appears here is just the game.
+   ============================================================ */
+(function () {
+  'use strict';
+
+  var modal = null, frame = null;
+
+  function build() {
+    modal = document.createElement('div');
+    modal.className = 'gym-portal';
+    modal.innerHTML =
+      '<div class="gym-portal__frame">' +
+        '<button type="button" class="gym-portal__close" data-gym-portal-close>Close &#10005;</button>' +
+        '<iframe title="After Hours — The Gym" loading="lazy"></iframe>' +
+      '</div>';
+    document.body.appendChild(modal);
+    frame = modal.querySelector('iframe');
+
+    modal.addEventListener('click', function (e) {
+      if (e.target === modal || e.target.closest('[data-gym-portal-close]')) close();
+    });
+    document.addEventListener('keydown', function (e) {
+      if (e.key === 'Escape' && modal.classList.contains('is-open')) close();
+    });
+  }
+
+  function open() {
+    if (!modal) build();
+    frame.src = 'gym/index.html?embed=1';
+    modal.classList.add('is-open');
+    document.documentElement.style.overflow = 'hidden';
+  }
+
+  function close() {
+    if (!modal) return;
+    modal.classList.remove('is-open');
+    frame.src = '';
+    document.documentElement.style.overflow = '';
+  }
+
+  document.addEventListener('click', function (e) {
+    if (e.target.closest('[data-gym-portal]')) {
+      e.preventDefault();
+      open();
+    }
+  });
+})();

diff --git a/assets/css/world.css b/assets/css/world.css
@@ -2253,6 +2253,35 @@ a:hover > .foxx{--foxx-color:var(--champagne)}
 }
 .guide-portal__close:hover{border-color:var(--brass);color:var(--brass-lit)}
 
+/* 26f2. GYM PORTAL — same shape as the Guide Portal above, for the Gym's
+   Boxer artifact into the After Hours boxing minigame. Sized wider/taller
+   since the game's own dialog wants more room than the City Guide iframe
+   does. Built lazily by gym-portal.js. */
+.gym-portal{
+  position:fixed;inset:0;z-index:920;display:none;
+  align-items:center;justify-content:center;
+  background:rgba(6,6,7,.92);padding:var(--s5);
+}
+.gym-portal.is-open{display:flex}
+.gym-portal__frame{
+  position:relative;width:min(97vw,1400px);height:min(94vh,980px);
+  background:#0a0a0b;border-radius:8px;overflow:hidden;
+  box-shadow:0 30px 90px rgba(0,0,0,.65);
+}
+.gym-portal__frame iframe{position:absolute;inset:0;width:100%;height:100%;border:0}
+.gym-portal__close{
+  position:absolute;top:-2.6rem;right:0;
+  font-family:var(--font-mono);font-size:var(--t-micro);letter-spacing:.1em;text-transform:uppercase;
+  background:none;border:1px solid var(--hairline);color:var(--bone);
+  padding:.5em 1em;border-radius:4px;cursor:pointer;
+}
+.gym-portal__close:hover{border-color:var(--brass);color:var(--brass-lit)}
+@media (max-width:760px){
+  .gym-portal{padding:0}
+  .gym-portal__frame{width:100vw;height:100svh;border-radius:0}
+  .gym-portal__close{top:.6rem;right:.6rem;z-index:2;background:rgba(10,10,11,.75)}
+}
+
 /* 26f. VAULT TRANSITION — full-screen wipe played before handing off to
    urwelcome.html from the Living Floor's Door artifact. */
 .vault-transition{

diff --git a/index.html b/index.html
@@ -211,6 +211,7 @@
 <script src="assets/js/vault.js?v=2" defer></script>
 <script src="assets/js/world.js?v=2" defer></script>
 <script src="assets/js/guide-portal.js?v=2" defer></script>
+<script src="assets/js/gym-portal.js?v=2" defer></script>
 <script src="assets/js/vault-entrance.js?v=2" defer></script>
 <script src="assets/js/piano-player.js?v=2" defer></script>
 </body>

diff --git a/build_house.py b/build_house.py
@@ -33,7 +33,7 @@ FLOORS = json.loads((Path(__file__).resolve().parent / "data" / "house-rooms.jso
 # serving the old file for hours after a swap unless the URL itself
 # changes. Bumping this on every image update forces a fresh fetch --
 # mirror any change here in assets/js/penthouse.js's IMG_VER too.
-IMG_VER = "20260913d"
+IMG_VER = "20260913e"
 
 def esc(t):
     return t.replace("&","&amp;").replace("<","&lt;").replace(">","&gt;").replace("'","&#8217;")
@@ -263,9 +263,11 @@ VAULT_CTA = ('<a class="cta pent__open" href="urwelcome.html" data-vault-enter s
 # The Gym's own boxing minigame lives at gym/ as a standalone page (built
 # separately, not part of the room-pager) -- this artifact is the one
 # doorway from the photo room into it, so the two don't read as two
-# unrelated "Gym" features living side by side.
-GYM_BOXING_CTA = ('<a class="cta cta--ghost" href="gym/" target="_blank" rel="noopener" style="margin-top:var(--s2)">'
-    '<span>Enter the Ring &#8212; After Hours</span><span class="cta__arrow" aria-hidden="true">&#8594;</span></a>')
+# unrelated "Gym" features living side by side. Opens in the gym-portal.js
+# overlay (same lazy-iframe pattern as the Guide Portal) rather than
+# navigating away, so clicking the Boxer goes straight into the fight.
+GYM_BOXING_CTA = ('<button type="button" class="cta cta--ghost" data-gym-portal style="margin-top:var(--s2)">'
+    '<span>Enter the Ring &#8212; After Hours</span><span class="cta__arrow" aria-hidden="true">&#8594;</span></button>')
 
 # The Piano artifact (Living Room) is retired -- this fixed single
 # playlist embed on the Music Lounge's own record-player artifact is its
@@ -541,6 +543,7 @@ html = f'''<!DOCTYPE html>
 <script src="assets/js/world.js?v=2" defer></script>
 <script src="assets/js/tv-remote.js?v=2" defer></script>
 <script src="assets/js/guide-portal.js?v=2" defer></script>
+<script src="assets/js/gym-portal.js?v=2" defer></script>
 <script src="assets/js/vault-entrance.js?v=2" defer></script>
 <script src="assets/js/piano-player.js?v=2" defer></script>
 </body>
